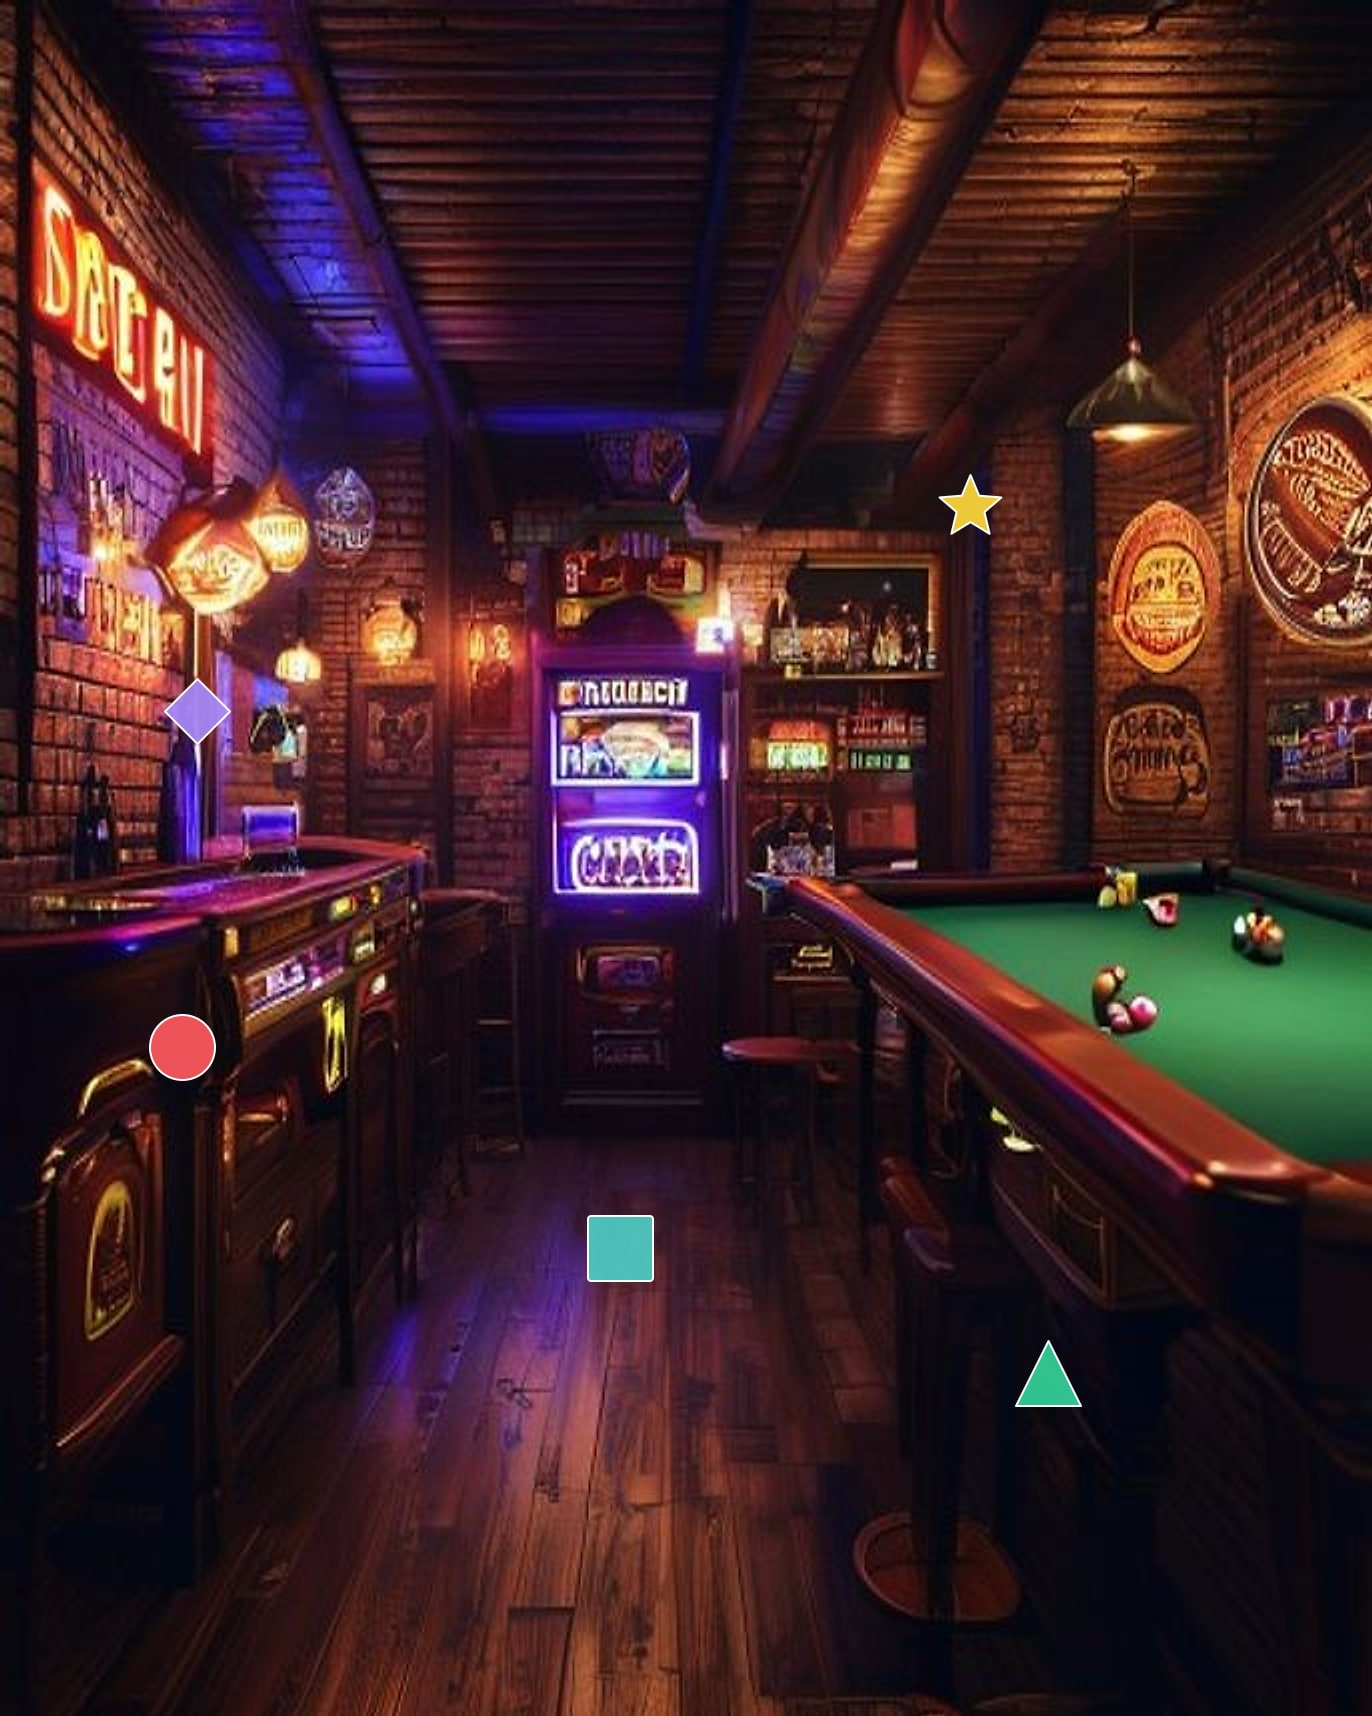
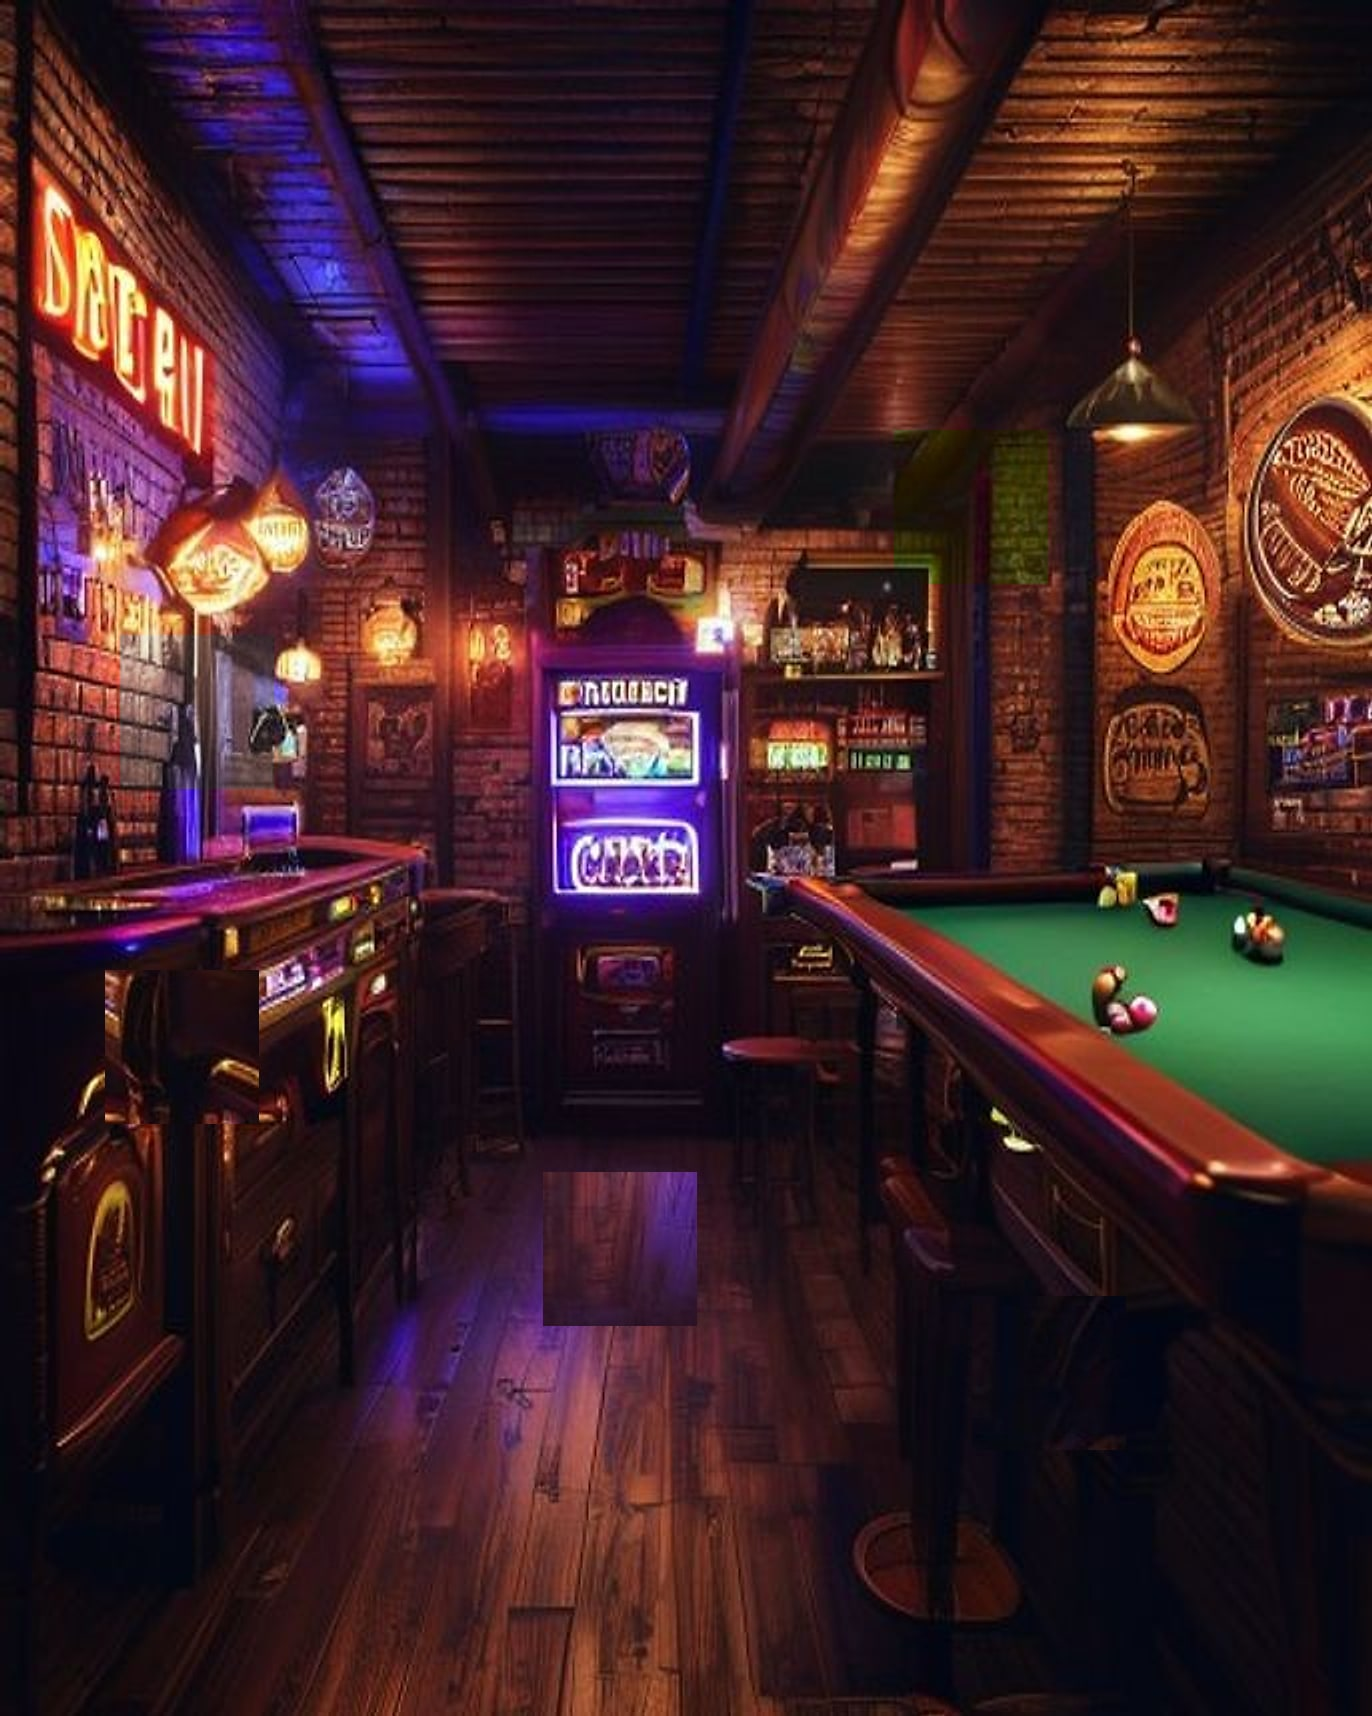
Photo Hunt: subtle photoreal distortions, not bright stickers
Bright shape overlays trivialized the game — players spotted the red
circles in a second. Switching to in-scene patch distortions:

For each of the 5 hotspot positions, extract a ~9% patch from the
generated photo and apply one of five natural transformations:
- Horizontal flip (mirrored patch)
- 180° rotation
- 60° hue shift
- Desaturate to 35%
- Vertical flip

Each diff is *of* the scene, not on top of it — the player is looking
for "what's been touched up" rather than "find the red dot". Way more
challenging, and the diff is still guaranteed (we know exactly where
the patch boundaries are).

Hotspot radius bumped slightly (0.07 → 0.08) since the patch itself is
larger than the old marker. Update How to Play copy accordingly.

diff --git a/scripts/generate-pair-pollinations.ts b/scripts/generate-pair-pollinations.ts
@@ -72,53 +72,18 @@ async function upscaleAndSharpen(input: Buffer): Promise<Buffer> {
     .toBuffer();
 }
 
-// Five distinct color/shape combinations for the markers. Each is sized to
-// be clearly findable but small enough that it doesn't dominate the scene.
-// White outline ensures visibility against both dark and light backgrounds.
-type Marker = { color: string; shape: 'circle' | 'square' | 'triangle' | 'diamond' | 'star'; label: string };
-const MARKERS: Marker[] = [
-  { color: '#ff5a5f', shape: 'circle', label: 'red circle' },
-  { color: '#4ecdc4', shape: 'square', label: 'teal square' },
-  { color: '#ffd93d', shape: 'star', label: 'yellow star' },
-  { color: '#a78bfa', shape: 'diamond', label: 'purple diamond' },
-  { color: '#34d399', shape: 'triangle', label: 'green triangle' },
+// Subtle, photoreal distortions. Each one extracts a small patch from the
+// scene at a hotspot location, applies a natural-looking transformation,
+// and composites it back. The change is *of* the scene, not on top of it —
+// so it blends in instead of screaming "I'm a sticker".
+type Distortion = 'flop' | 'flip' | 'rotate180' | 'hueShift' | 'desaturate';
+const DISTORTIONS: { kind: Distortion; label: string }[] = [
+  { kind: 'flop', label: 'mirrored patch' },
+  { kind: 'rotate180', label: 'rotated patch' },
+  { kind: 'hueShift', label: 'hue-shifted patch' },
+  { kind: 'desaturate', label: 'desaturated patch' },
+  { kind: 'flip', label: 'vertically flipped patch' },
 ];
-
-function shapeSvg(shape: Marker['shape'], size: number, color: string): string {
-  const s = size;
-  const c = s / 2;
-  const r = s / 2 - 2;
-  switch (shape) {
-    case 'circle':
-      return `<circle cx="${c}" cy="${c}" r="${r}" fill="${color}" fill-opacity="0.92" stroke="white" stroke-width="2"/>`;
-    case 'square': {
-      const pad = 2;
-      return `<rect x="${pad}" y="${pad}" width="${s - 2 * pad}" height="${s - 2 * pad}" fill="${color}" fill-opacity="0.92" stroke="white" stroke-width="2" rx="3"/>`;
-    }
-    case 'triangle':
-      return `<polygon points="${c},2 ${s - 2},${s - 2} 2,${s - 2}" fill="${color}" fill-opacity="0.92" stroke="white" stroke-width="2" stroke-linejoin="round"/>`;
-    case 'diamond':
-      return `<polygon points="${c},2 ${s - 2},${c} ${c},${s - 2} 2,${c}" fill="${color}" fill-opacity="0.92" stroke="white" stroke-width="2" stroke-linejoin="round"/>`;
-    case 'star': {
-      const o = c;
-      const outer = c - 2;
-      const inner = outer * 0.45;
-      const pts: string[] = [];
-      for (let i = 0; i < 10; i++) {
-        const angle = (Math.PI / 5) * i - Math.PI / 2;
-        const radius = i % 2 === 0 ? outer : inner;
-        pts.push(`${o + radius * Math.cos(angle)},${o + radius * Math.sin(angle)}`);
-      }
-      return `<polygon points="${pts.join(' ')}" fill="${color}" fill-opacity="0.92" stroke="white" stroke-width="2" stroke-linejoin="round"/>`;
-    }
-  }
-}
-
-function markerSvg(marker: Marker, size: number): Buffer {
-  return Buffer.from(
-    `<svg xmlns="http://www.w3.org/2000/svg" width="${size}" height="${size}">${shapeSvg(marker.shape, size, marker.color)}</svg>`,
-  );
-}
 
 /**
  * Deterministic PRNG so each puzzle slug gives reproducible marker layout.
@@ -163,33 +128,66 @@ function pickPositions(seed: string, n: number): { x: number; y: number }[] {
   return positions;
 }
 
-async function applyMarkers(
+async function applyDistortions(
   baseImg: Buffer,
   positions: { x: number; y: number }[],
 ): Promise<{ image: Buffer; hotspots: Hotspot[] }> {
   const meta = await sharp(baseImg).metadata();
   const w = meta.width!;
   const h = meta.height!;
-  // Marker size scales with image — 4% of the longer edge feels right.
-  const markerSize = Math.round(Math.max(w, h) * 0.04);
+  // Patch size: ~9% of the longer edge. Big enough that asymmetric content
+  // in the scene (faces, signs, props) gets a visible transformation;
+  // small enough that the diff feels local, not regional.
+  const patchSize = Math.round(Math.max(w, h) * 0.09);
 
-  const composites = positions.map((pos, i) => {
-    const marker = MARKERS[i % MARKERS.length];
-    const svg = markerSvg(marker, markerSize);
-    const left = Math.max(0, Math.round(pos.x * w - markerSize / 2));
-    const top = Math.max(0, Math.round(pos.y * h - markerSize / 2));
-    return { input: svg, left, top };
-  });
+  const composites = await Promise.all(
+    positions.map(async (pos, i) => {
+      const { kind } = DISTORTIONS[i % DISTORTIONS.length];
 
-  const image = await sharp(baseImg).composite(composites).jpeg({ quality: 88, mozjpeg: true }).toBuffer();
+      // Clamp the extract window so we never read outside the image bounds.
+      const left = Math.max(0, Math.min(w - patchSize, Math.round(pos.x * w - patchSize / 2)));
+      const top = Math.max(0, Math.min(h - patchSize, Math.round(pos.y * h - patchSize / 2)));
+
+      let patch = sharp(baseImg).extract({ left, top, width: patchSize, height: patchSize });
+      switch (kind) {
+        case 'flop':
+          patch = patch.flop();
+          break;
+        case 'flip':
+          patch = patch.flip();
+          break;
+        case 'rotate180':
+          patch = patch.rotate(180);
+          break;
+        case 'hueShift':
+          // 60° hue rotation — substantial enough to be visible in colorful
+          // scenes, but doesn't change shape/structure so it stays photoreal.
+          patch = patch.modulate({ hue: 60 });
+          break;
+        case 'desaturate':
+          patch = patch.modulate({ saturation: 0.35 });
+          break;
+      }
+
+      return { input: await patch.toBuffer(), left, top };
+    }),
+  );
+
+  // Composite all patches in one pass — order doesn't matter since each is
+  // at a different position and we pre-extracted from the original buffer.
+  const image = await sharp(baseImg)
+    .composite(composites)
+    .jpeg({ quality: 88, mozjpeg: true })
+    .toBuffer();
 
   const hotspots: Hotspot[] = positions.map((pos, i) => ({
     id: `h${i + 1}`,
     x: pos.x,
     y: pos.y,
-    // Slightly larger than the marker itself so taps near the marker still register.
-    r: 0.07,
-    hint: MARKERS[i % MARKERS.length].label,
+    // Hit radius covers the full patch (~9% wide → 0.045 half-width)
+    // plus generous tap forgiveness.
+    r: 0.08,
+    hint: DISTORTIONS[i % DISTORTIONS.length].label,
   }));
 
   return { image, hotspots };
@@ -205,15 +203,15 @@ async function main() {
   // Image A is the clean base scene.
   await writeFile(join(OUT_DIR, 'imageA.jpg'), base);
 
-  console.log(`[${SLUG}] 2. Picking ${DIFF_COUNT} marker positions…`);
+  console.log(`[${SLUG}] 2. Picking ${DIFF_COUNT} distortion positions…`);
   const positions = pickPositions(SLUG, DIFF_COUNT);
   positions.forEach((p, i) => {
-    const m = MARKERS[i % MARKERS.length];
-    console.log(`   ${m.shape} (${m.color}) at (${p.x.toFixed(2)}, ${p.y.toFixed(2)})`);
+    const d = DISTORTIONS[i % DISTORTIONS.length];
+    console.log(`   ${d.label} at (${p.x.toFixed(2)}, ${p.y.toFixed(2)})`);
   });
 
-  console.log(`[${SLUG}] 3. Compositing markers onto image B…`);
-  const { image: imageB, hotspots } = await applyMarkers(base, positions);
+  console.log(`[${SLUG}] 3. Applying distortions to image B patches…`);
+  const { image: imageB, hotspots } = await applyDistortions(base, positions);
   await writeFile(join(OUT_DIR, 'imageB.jpg'), imageB);
 
   await writeFile(
@@ -224,7 +222,7 @@ async function main() {
         slug: SLUG,
         basePrompt: BASE,
         seed: SEED,
-        markerCount: DIFF_COUNT,
+        diffCount: DIFF_COUNT,
         hotspots,
         generatedAt: new Date().toISOString(),
       },
@@ -233,7 +231,7 @@ async function main() {
     ),
   );
 
-  console.log(`[${SLUG}] Done. ${hotspots.length} markers placed. ${hotspots.length} hotspots written.`);
+  console.log(`[${SLUG}] Done. ${hotspots.length} distortions applied. ${hotspots.length} hotspots written.`);
 }
 
 main().catch((err) => {

diff --git a/app/games/photo-hunt/[id].tsx b/app/games/photo-hunt/[id].tsx
@@ -138,10 +138,10 @@ export default function PhotoHuntScreen() {
           <Text style={styles.howToBody}>
             Image <Text style={styles.howToStrong}>A</Text> is the clean scene. Image{' '}
             <Text style={styles.howToStrong}>B</Text> has{' '}
-            <Text style={styles.howToStrong}>{puzzle.hotspots.length}</Text> small colored
-            markers added to it. Tap each marker (on either image) to capture it — a green
-            ring confirms a hit. Stuck? Hit{' '}
-            <Text style={styles.howToStrong}>Show hints</Text> to reveal where they are.
+            <Text style={styles.howToStrong}>{puzzle.hotspots.length}</Text> small areas
+            subtly altered (mirrored, rotated, hue-shifted, etc.). Tap each altered area
+            (on either image) to capture it — a green ring confirms a hit. Stuck? Hit{' '}
+            <Text style={styles.howToStrong}>Show a hint</Text> to reveal one location.
           </Text>
         </View>
 